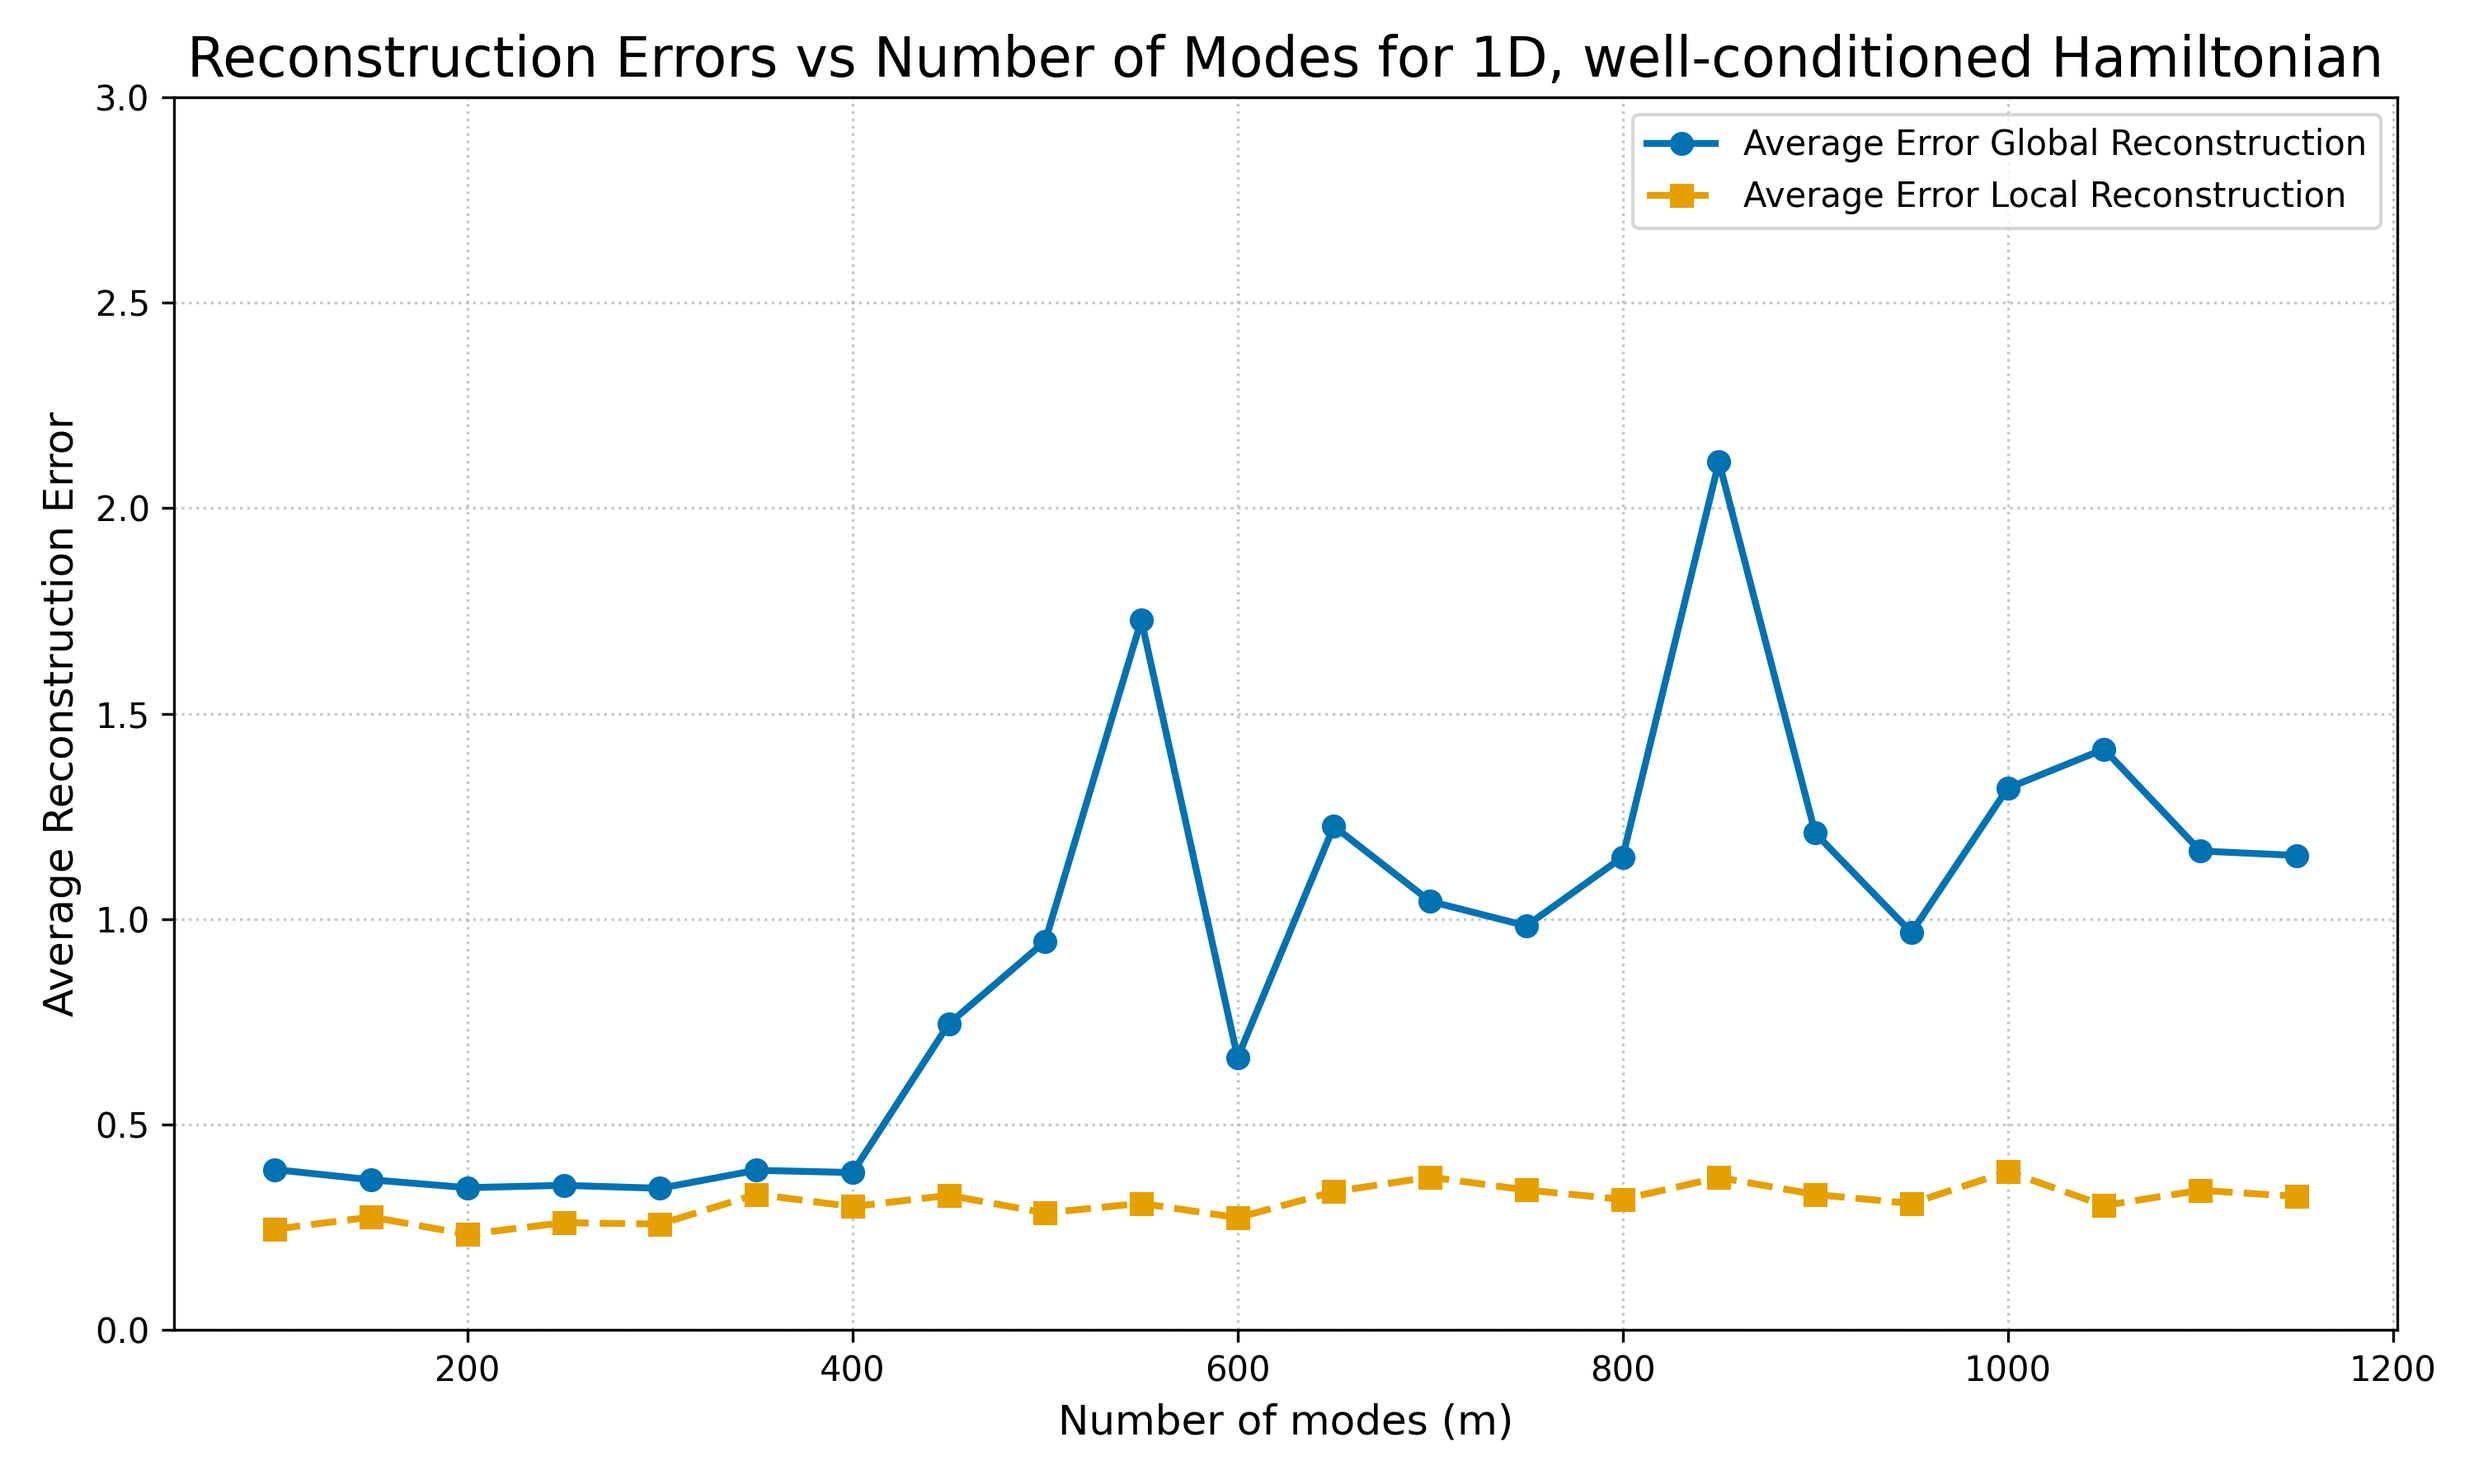
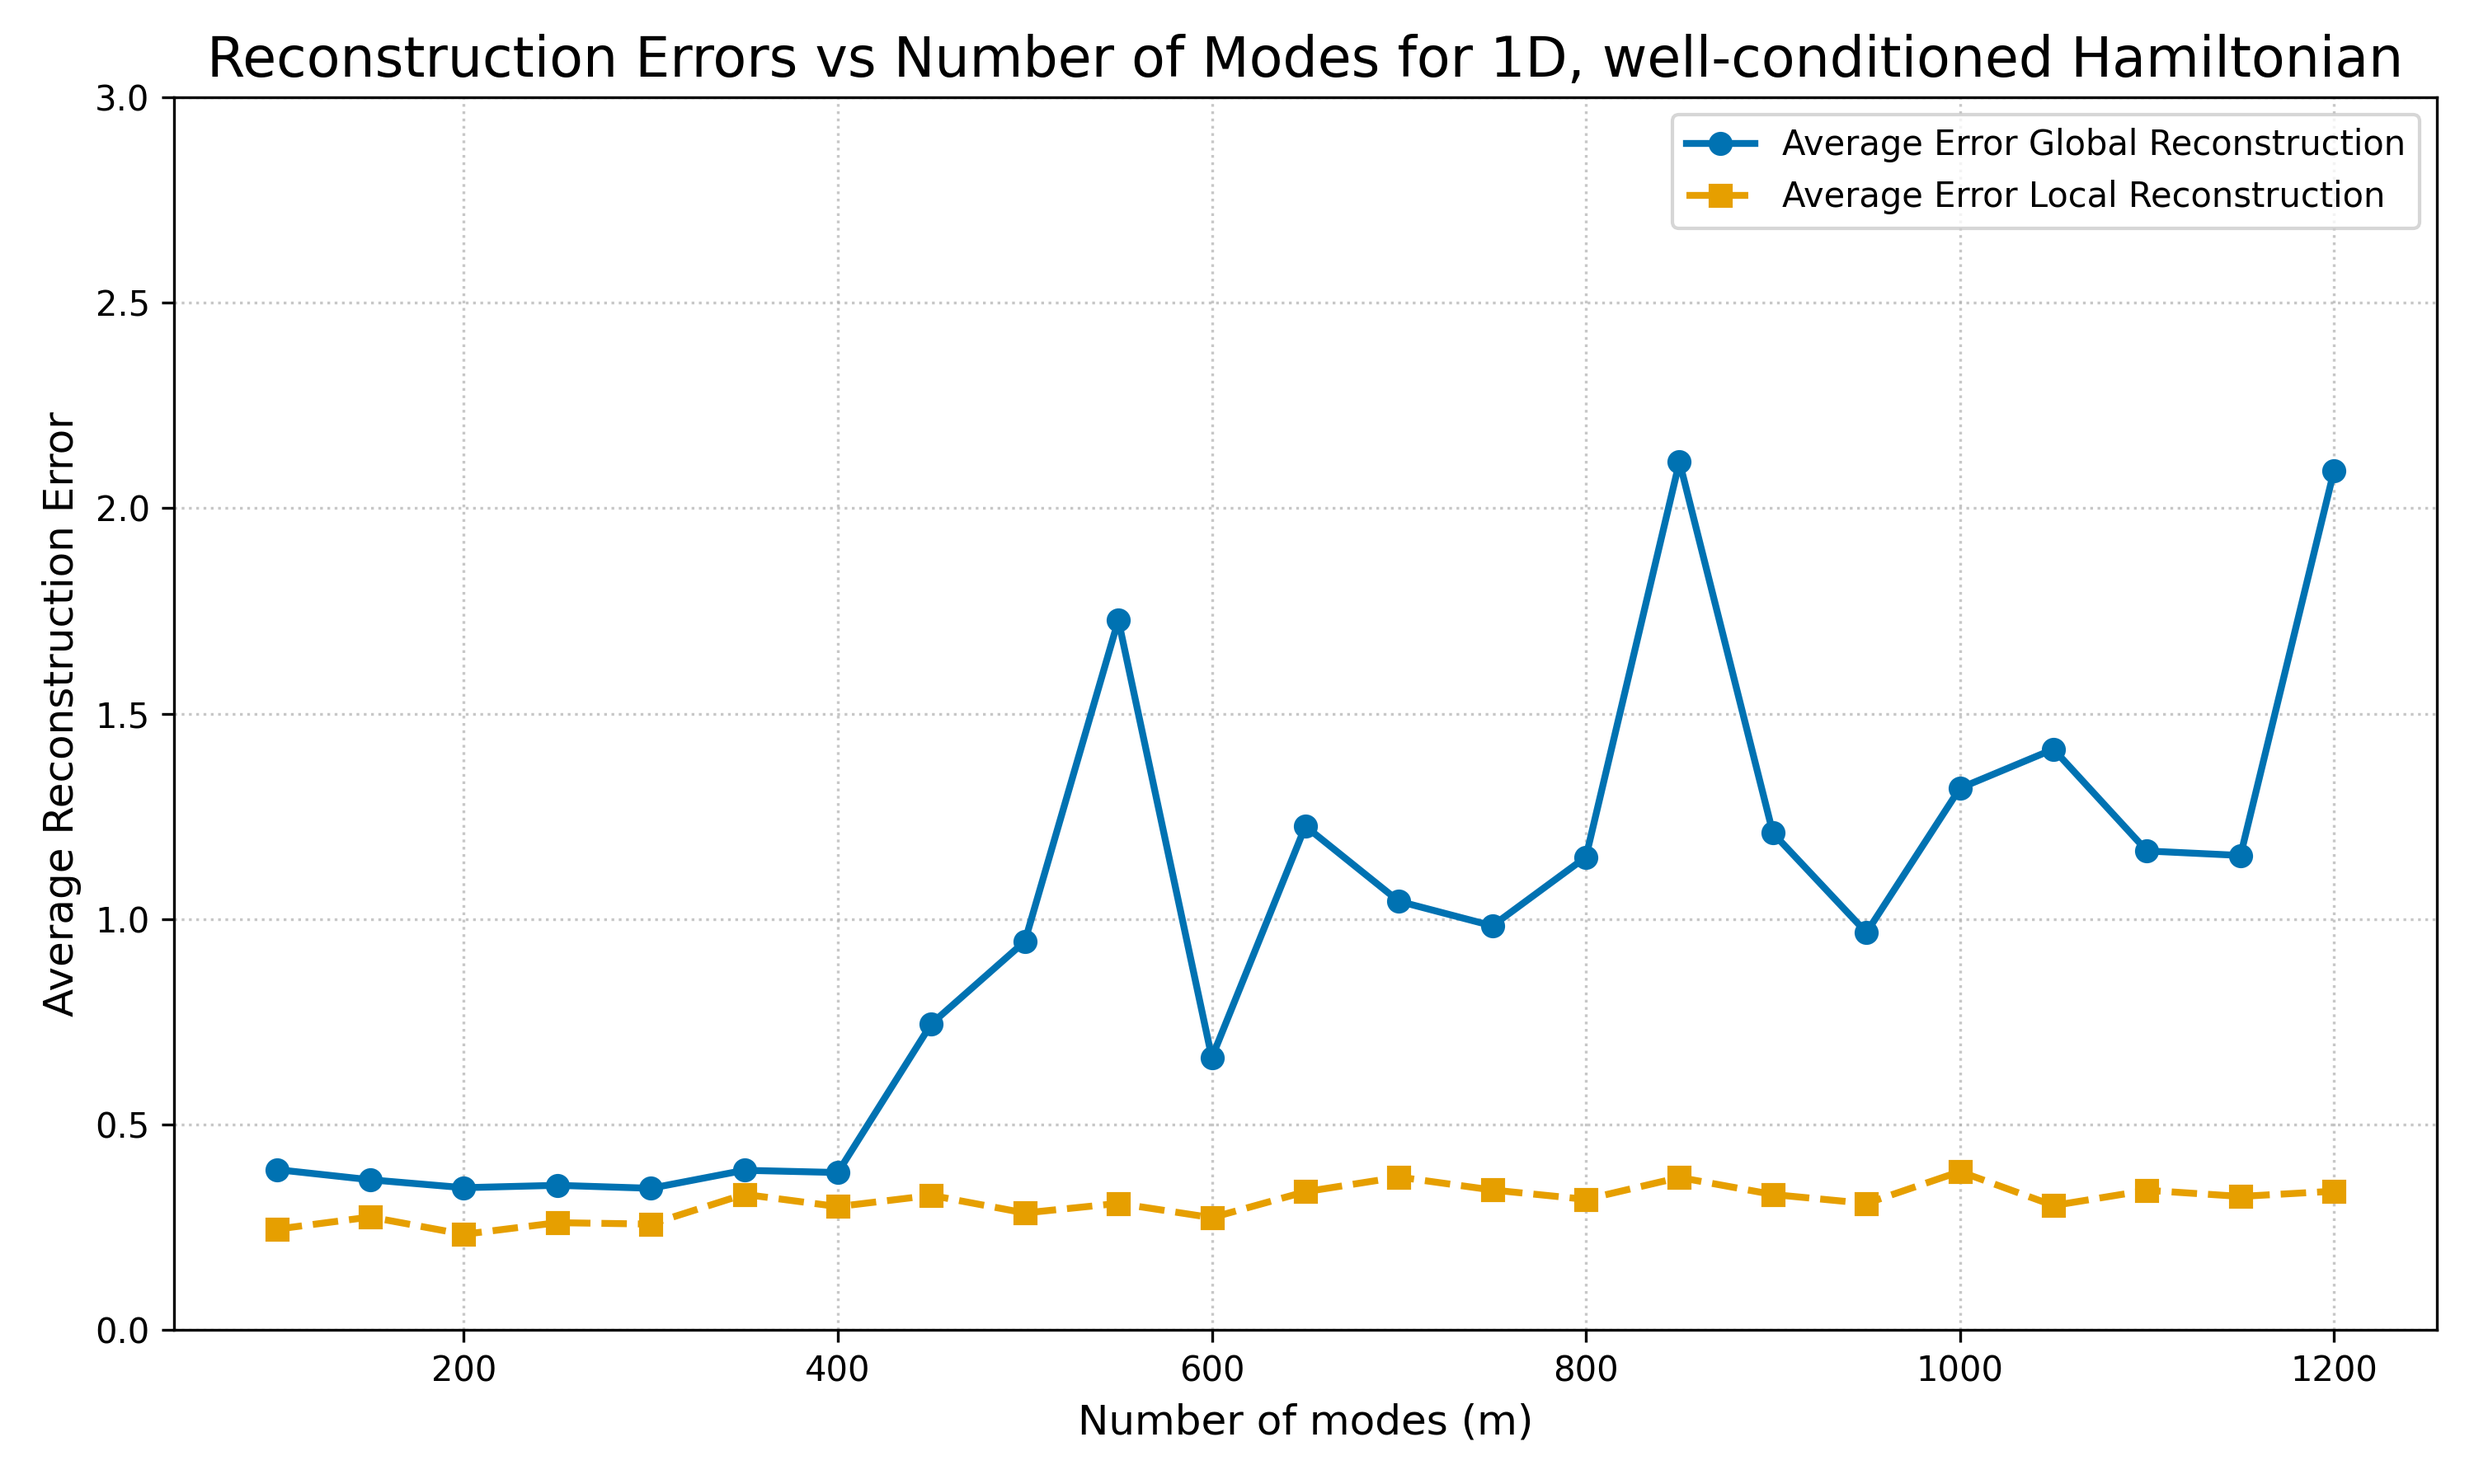
Extend mode sweeps to 1200 modes

diff --git a/run_seeded_reproduction.py b/run_seeded_reproduction.py
@@ -35,7 +35,7 @@ def parse_args() -> argparse.Namespace:
     parser.add_argument("--mode-repeats", type=int, default=5, help="Realizations averaged for each mode-sweep point.")
     parser.add_argument("--mode-locality", type=int, default=3, help="Locality parameter used in the mode-sweep local reconstruction.")
     parser.add_argument("--m-start", type=int, default=100, help="First m value in the mode sweep.")
-    parser.add_argument("--m-stop", type=int, default=1150, help="Last m value in the mode sweep, inclusive.")
+    parser.add_argument("--m-stop", type=int, default=1200, help="Last m value in the mode sweep, inclusive.")
     parser.add_argument("--m-step", type=int, default=50, help="Step size for the mode sweep.")
     parser.add_argument("--l-m", type=int, default=100, help="System size for the locality sweep.")
     parser.add_argument("--l-samples", type=int, nargs="+", default=[10_000, 100_000], help="Sample counts for the locality sweep.")

diff --git a/dump_plot_matrices.py b/dump_plot_matrices.py
@@ -35,7 +35,7 @@ def parse_args() -> argparse.Namespace:
     parser.add_argument("--mode-repeats", type=int, default=5, help="Realizations for each mode-sweep point.")
     parser.add_argument("--mode-locality", type=int, default=3, help="Locality parameter used in the mode sweep.")
     parser.add_argument("--m-start", type=int, default=100, help="First m value in the mode sweep.")
-    parser.add_argument("--m-stop", type=int, default=1150, help="Last m value in the mode sweep, inclusive.")
+    parser.add_argument("--m-stop", type=int, default=1200, help="Last m value in the mode sweep, inclusive.")
     parser.add_argument("--m-step", type=int, default=50, help="Step size for the mode sweep.")
     parser.add_argument("--l-m", type=int, default=100, help="System size for the locality sweep.")
     parser.add_argument("--l-samples", type=int, nargs="+", default=[10_000, 100_000], help="Sample counts for the locality sweep.")

diff --git a/qgl_reproduce.py b/qgl_reproduce.py
@@ -29,7 +29,7 @@ plt.rcParams.update(
 
 
 DEFAULT_BETA = 0.5
-DEFAULT_MODE_M_VALUES = list(range(100, 1151, 50))
+DEFAULT_MODE_M_VALUES = list(range(100, 1201, 50))
 DEFAULT_L_VALUES = [2, 4, 6, 8, 10]
 
 

diff --git a/readme.md b/readme.md
@@ -10,12 +10,13 @@ The experiments compare global plug-in Hamiltonian reconstruction with local inv
 
 | Experiment | Default parameters | Figure output |
 | --- | --- | --- |
-| Mode sweep, ill-conditioned chain | `c = 0`, `N = 10^4`, `l = 3`, `m = 100, 150, ..., 1150`, five realizations | `simulation_errors_plot_ill.png` and `.pdf` |
-| Mode sweep, well-conditioned chain | `c = 0.1`, `N = 10^4`, `l = 3`, `m = 100, 150, ..., 1150`, five realizations | `simulation_errors_plot_well.png` and `.pdf` |
+| Mode sweep, ill-conditioned chain | `c = 0`, `N = 10^4`, `l = 3`, `m = 100, 150, ..., 1200`, five realizations | `simulation_errors_plot_ill.png` and `.pdf` |
+| Mode sweep, well-conditioned chain | `c = 0.1`, `N = 10^4`, `l = 3`, `m = 100, 150, ..., 1200`, five realizations | `simulation_errors_plot_well.png` and `.pdf` |
 | Locality sweep, well-conditioned chain | `m = 100`, `N = 10^4` and `10^5`, `l = 2, 4, 6, 8, 10`, one realization per sample count | `improved_plot.png` and `.pdf` |
 
 All experiments use the inverse-temperature prefactor `beta = 0.5` and base random seed `20240527` by default.
 The committed manuscript-scale figures are stored in `reproduced_plots_seeded/` in both formats.
+The two mode-sweep figures are also mirrored at the repository root for compatibility.
 
 ## Repository layout
 
